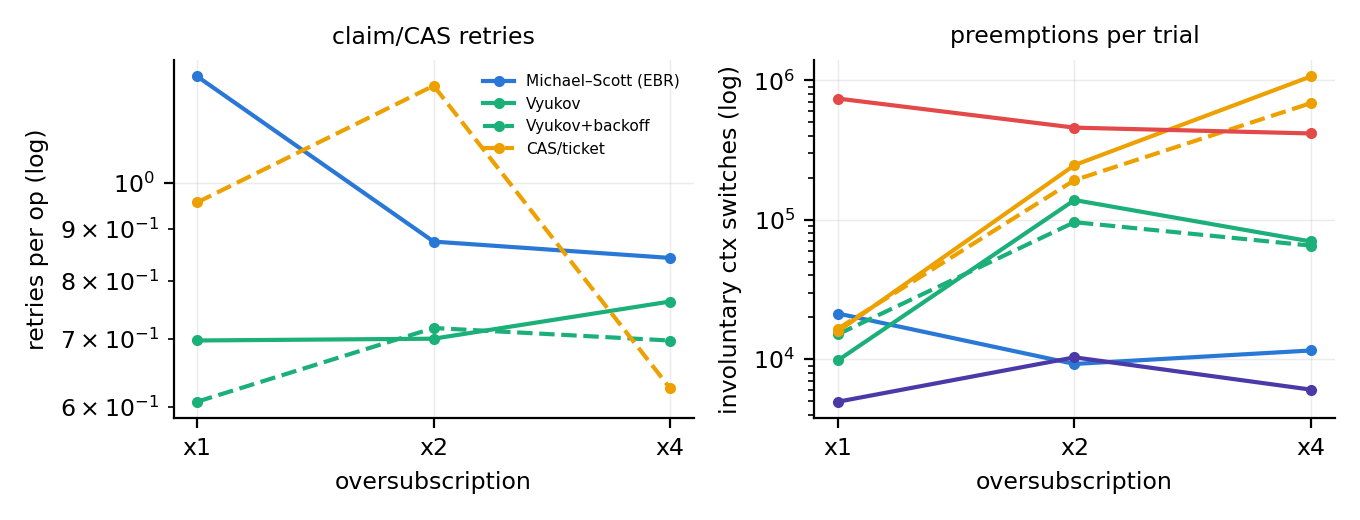
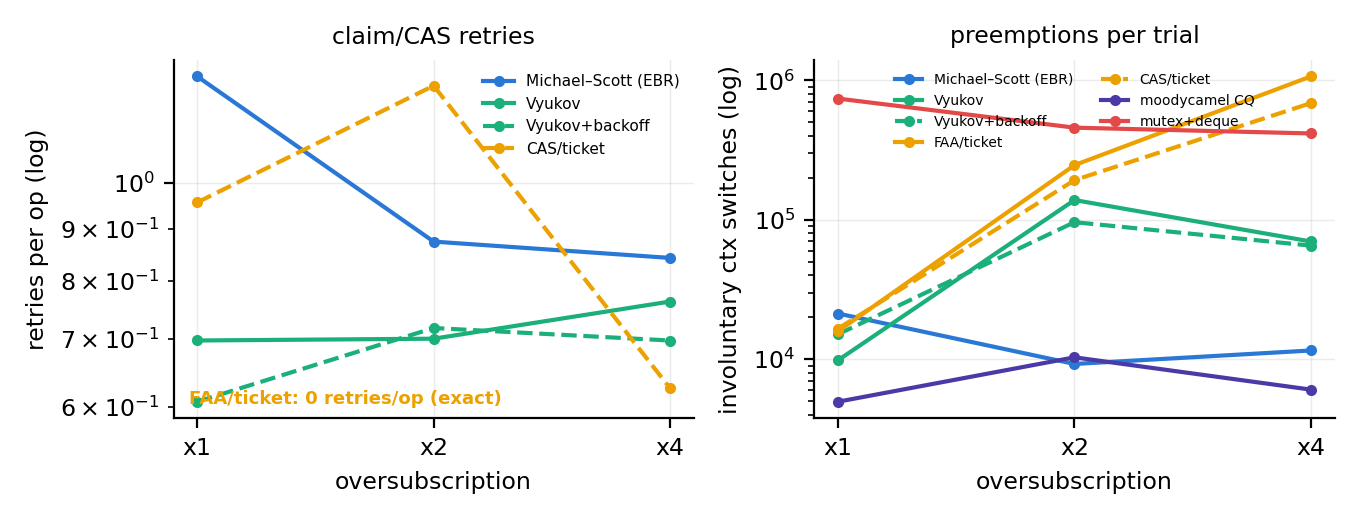
fix mechanism figure and latency variability prose

Changed region(s): [[0.6485, 0.1231, 0.9265, 0.2769], [0.1235, 0.7385, 0.3706, 0.8]]

diff --git a/paper/main.tex b/paper/main.tex
@@ -5,8 +5,10 @@
 % with AI assistance. Before any submission the human author must verify every
 % claim against paper/notes/claims.md and the data in paper/data/, rewrite the
 % prose in their own voice, and check the venue's AI-disclosure policy.
-% Every number below is traceable: paper/data/matrix_v2.csv (canonical, k=8)
-% and matrix_v1.csv (replication check); aggregation = scripts/make_plots.py.
+% Every number below is traceable: matrix_v2.csv (full matrix, k=8),
+% matrix_v3.csv (focus matrix with control arms, k=8), matrix_v3s.csv
+% (instrumented mechanism dataset), matrix_v1.csv (first replication);
+% aggregation = scripts/make_plots.py; claim->data map = notes/claims.md.
 \documentclass[conference]{IEEEtran}
 
 \usepackage{graphicx}
@@ -405,11 +407,16 @@ producer-heavy dedicated shapes (CoV 0.18--0.19 at 6:2 and 7:1), consistent
 with its per-producer sub-queue architecture trading fairness for throughput.
 
 \subsection{Dedicated-core latency, and an incompatibility}
-On dedicated cores (post-confounder-fix, v2), median latencies are sub-2\,\textmu s
-for all designs (FAA best at 333\,ns; the mutex worst at 1.75\,\textmu s with
-p99 of 44\,\textmu s vs 5--12\,\textmu s for the rest); p99.9 spans only
-${\sim}2\times$ across designs (MS best at 272\,\textmu s). Preemption, not
-the dedicated case, is what separates the designs. Separately, moodycamel
+On dedicated cores (post-confounder-fix), median latencies are
+sub-2\,\textmu s for all designs (FAA best at 333\,ns; the mutex worst at
+1.75\,\textmu s with p99 of 44\,\textmu s vs 5--12\,\textmu s for the rest).
+Dedicated-core p99.9 splits by family: the array/ticket designs stay sub-
+millisecond in every run (v3: Vyukov ${<}0.05$, casticket 0.2, FAA
+0.6\,ms), while Michael--Scott and the mutex show run-\emph{variable}
+multi-millisecond tails (0.27/0.39\,ms in one full run, 8.2/6.1\,ms in
+another) --- consistent with reclamation maintenance bursts and lock convoys
+being scheduler-timing-dependent. Preemption, not the dedicated case, is what
+separates the designs decisively. Separately, moodycamel
 exceeded a 120\,s timeout in 7 of 8 rounds at capacity 64 under $\times4$
 oversubscription (wedged in the drain phase); we report this as a
 configuration incompatibility rather than scoring it.
@@ -431,7 +438,7 @@ micro-optimized to each design's best-known form; the industrial reference
 arm bounds that gap. Apple's memory subsystem is undocumented, so mechanism
 explanations are stated as hypotheses consistent with the data
 (``consistent with,'' never ``because''). The FAA design's throughput gain
-under oversubscription, while replicated across two full runs and
+under oversubscription, while replicated across three full runs and
 capacity-controlled, deserves confirmation on other asymmetric parts
 (e.g., Intel hybrid, other Apple generations) --- our artifact makes this a
 one-command experiment for anyone with such hardware.

diff --git a/scripts/make_plots.py b/scripts/make_plots.py
@@ -230,12 +230,19 @@ def fig_mechanism(df, outdir, tag):
     base = df[(df["mode"] == "throughput") & (df.producers == 4) & (df.consumers == 4) &
               (df.qos == "none") & (df.capacity == 1024)]
     fig, axes = plt.subplots(1, 2, figsize=(6.8, 2.6))
+    zero_arms = []
     for q in queues_present(base):
         rows = agg(base[base.queue == q], "retries_per_op").sort_values("oversubscribe")
         if rows["median"].max() > 0:
             axes[0].plot(rows.oversubscribe, rows["median"].clip(lower=1e-3),
                          color=COLOR[q], label=LABEL[q], marker="o", markersize=3,
                          linestyle="--" if q in DASH else "-", linewidth=1.5)
+        elif q in ("faa",):  # zero retries IS the finding -- annotate, don't hide
+            zero_arms.append(q)
+    for q in zero_arms:
+        axes[0].annotate(f"{LABEL[q]}: 0 retries/op (exact)", xy=(0.03, 0.04),
+                         xycoords="axes fraction", fontsize=6.5, color=COLOR[q],
+                         fontweight="bold")
     axes[0].set_yscale("log")
     axes[0].set_xscale("log", base=2)
     axes[0].set_xticks([1, 2, 4]); axes[0].set_xticklabels(["x1", "x2", "x4"])
@@ -246,8 +253,9 @@ def fig_mechanism(df, outdir, tag):
     for q in queues_present(base):
         rows = agg(base[base.queue == q], "ivcsw").sort_values("oversubscribe")
         axes[1].plot(rows.oversubscribe, rows["median"].clip(lower=1),
-                     color=COLOR[q], marker="o", markersize=3,
+                     color=COLOR[q], label=LABEL[q], marker="o", markersize=3,
                      linestyle="--" if q in DASH else "-", linewidth=1.5)
+    axes[1].legend(fontsize=5, frameon=False, ncol=2)
     axes[1].set_yscale("log")
     axes[1].set_xscale("log", base=2)
     axes[1].set_xticks([1, 2, 4]); axes[1].set_xticklabels(["x1", "x2", "x4"])